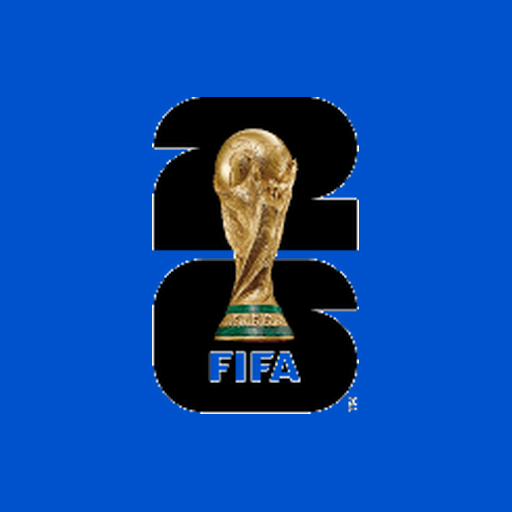
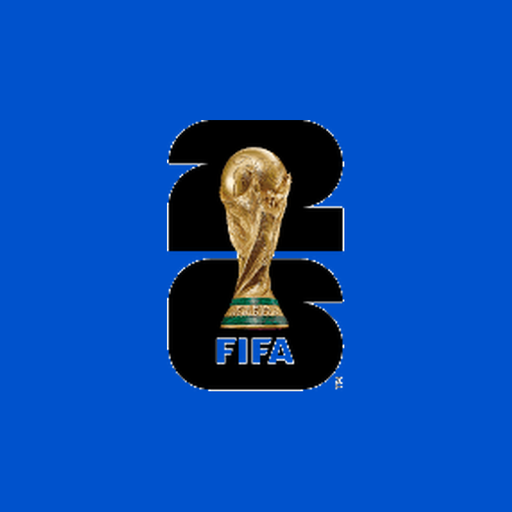
feat(epic-26): audit iconos + splash iOS (WS4)
- Regenera icon-512-maskable con bg #0052CC + logo 68% centrado (safe area correcta)
- Agrega favicon.ico multi-size (16/32/48) y favicon-16.png para compat legacy
- Genera 3 splash iOS por device (iPhone regular 1170x2532, Max 1284x2778, iPad 2048x2732)
- Registra <link rel="apple-touch-startup-image"> con media queries por device en root layout
- Bumpea SW a v2 para invalidar caches del maskable viejo
- Precache incluye nuevos favicon.ico + favicon-16 + maskable actualizado

Changed region(s): [[0.2812, 0.1875, 0.7188, 0.8125]]

diff --git a/apps/web/src/app/layout.tsx b/apps/web/src/app/layout.tsx
@@ -33,6 +33,8 @@ export const metadata: Metadata = {
   },
   icons: {
     icon: [
+      { url: "/favicon.ico", sizes: "any" },
+      { url: "/favicon-16.png", sizes: "16x16", type: "image/png" },
       { url: "/favicon-32.png", sizes: "32x32", type: "image/png" },
       { url: "/icon-192.png", sizes: "192x192", type: "image/png" },
       { url: "/icon-512.png", sizes: "512x512", type: "image/png" }
@@ -77,6 +79,21 @@ export default function RootLayout({ children }: { children: ReactNode }) {
     <html lang="es">
       <head>
         <GoogleConsentDefault />
+        <link
+          rel="apple-touch-startup-image"
+          href="/apple-splash-1170x2532.png"
+          media="(device-width: 390px) and (device-height: 844px) and (-webkit-device-pixel-ratio: 3) and (orientation: portrait)"
+        />
+        <link
+          rel="apple-touch-startup-image"
+          href="/apple-splash-1284x2778.png"
+          media="(device-width: 428px) and (device-height: 926px) and (-webkit-device-pixel-ratio: 3) and (orientation: portrait)"
+        />
+        <link
+          rel="apple-touch-startup-image"
+          href="/apple-splash-2048x2732.png"
+          media="(device-width: 1024px) and (device-height: 1366px) and (-webkit-device-pixel-ratio: 2) and (orientation: portrait)"
+        />
       </head>
       <body className="app-body-bg">
         <LocaleProvider>

diff --git a/apps/web/public/sw.js b/apps/web/public/sw.js
@@ -7,7 +7,7 @@
 //   - /api/*:            network-only (datos siempre frescos)
 //   - Cross-origin:      sin intercepción (Firebase, football-data, etc.)
 
-const VERSION = "v1";
+const VERSION = "v2";
 const STATIC_CACHE = `prode-static-${VERSION}`;
 const RUNTIME_CACHE = `prode-runtime-${VERSION}`;
 
@@ -16,7 +16,10 @@ const PRECACHE_URLS = [
   "/manifest.webmanifest",
   "/icon-192.png",
   "/icon-512.png",
+  "/icon-512-maskable.png",
   "/apple-touch-icon.png",
+  "/favicon.ico",
+  "/favicon-16.png",
   "/favicon-32.png"
 ];
 
